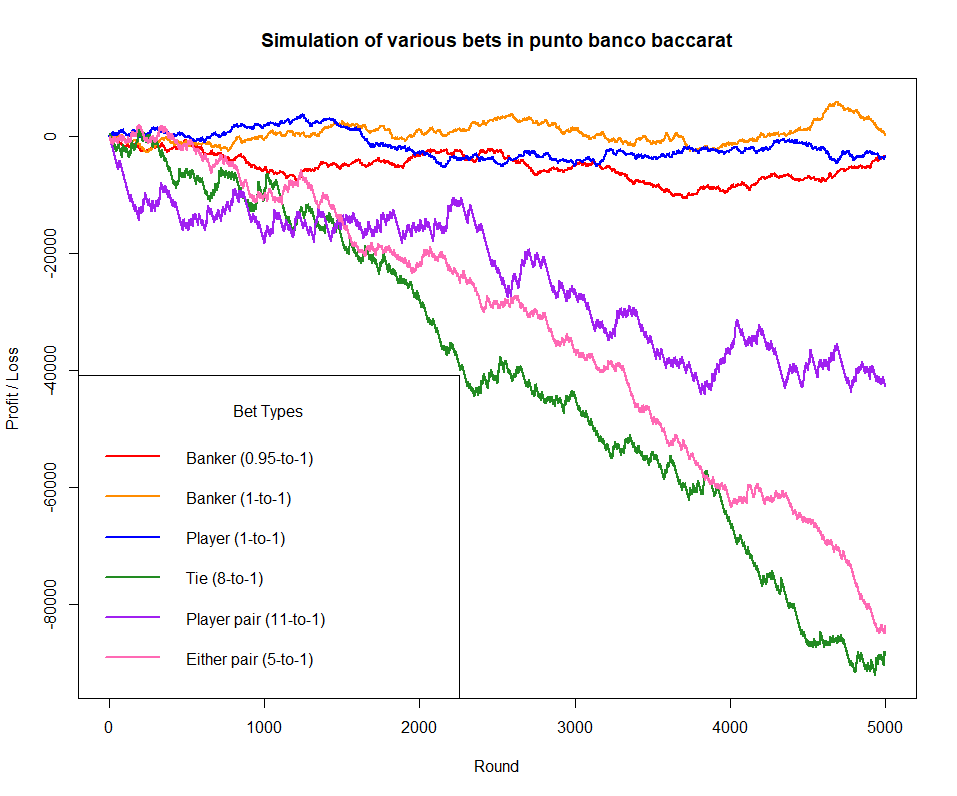
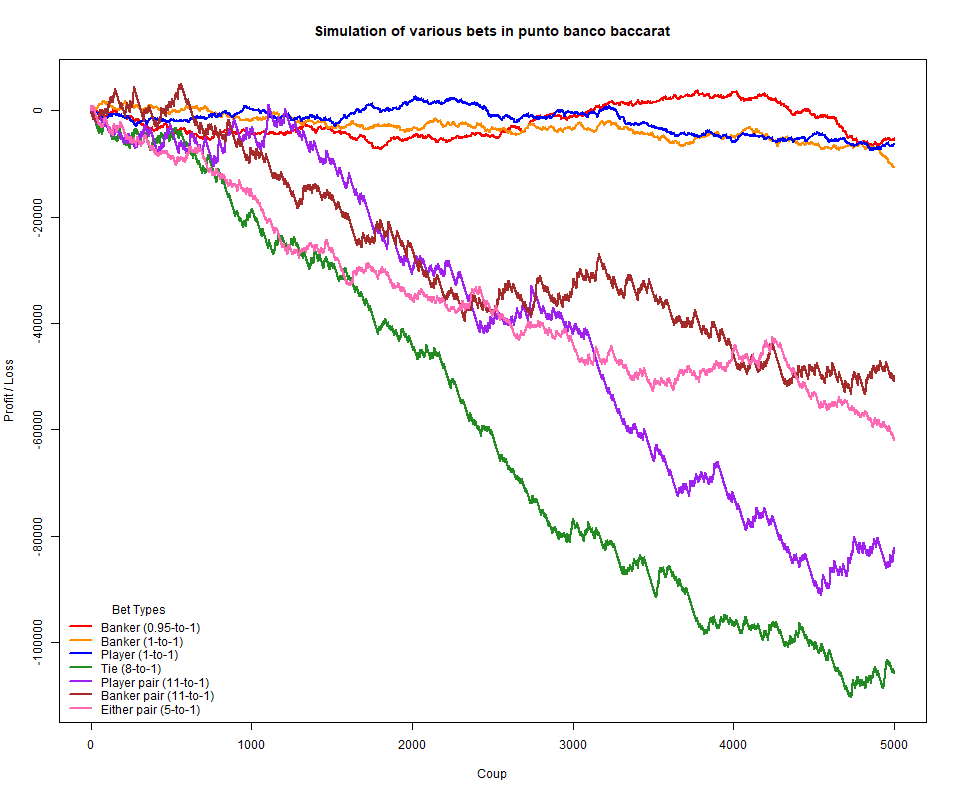
fix for either pair bet; generate table of outcomes per simulation; sample plots updated

diff --git a/README.md b/README.md
@@ -2,12 +2,12 @@
 
 A simulation of punto banco (North American style) baccarat in R. Latest version tested on R 3.4.1 (2017-06-30).
 
-Features:
+Gameplay Features:
 
 1. Uses standard drawing and tableau rules.
 2. Allows standard bets (player, banker, tie), player/banker pair bets (wins when first two cards dealt are a pair), and an either pair bet (wins when either player or banker's first two cards dealt are a pair).)
 3. Tie pushes all player and banker bets.
-4. Cut card is placed before the 7th card.
+4. Cut card is placed in front of the 6th last card.
 5. Can adjust the number of decks used (usually 6 to 8).
 6. Can turn on or off house commission for banker wins (commission set to 0.95). 
 7. Can adjust the payout for ties (usually pays 8:1 or 9:1).
@@ -15,8 +15,12 @@ Features:
 9. Can adjust the payout for an either pair bet (usually pays 5:1).
 
 
+Code Features:
+1. The code does not use any R packages. It can be run on a base R installation.
+
+
 ## baccaratsim
-Contains all of the functions to run the baccarat simulation. Run this file first.
+1. Contains all of the functions to run the baccarat simulation. Run this file first.
 
 
 ## bets
@@ -26,10 +30,10 @@ Contains all of the functions to run the baccarat simulation. Run this file firs
 
 
 ## density
-Displays a histogram or density plot of the various types of bets.
+1. Simulates r sessions of n rounds of baccarat with a specific bet, and displays a histogram or density plot of the profit/loss at the end of each session.
 
 
-## An explanation of punto banco baccarat
+## A brief explanation of punto banco baccarat
 
 *Credit to [Wikipedia](https://en.wikipedia.org/wiki/Baccarat_(card_game)#Punto_banco).*
 
@@ -75,14 +79,23 @@ Should both Banker and Player have the same value at the end of the deal the cro
   
 ## Release history
 
+### Version 2.1
+
+December 18, 2022
+
+1. Fixed an issue in *simulation()* where the either pair bet was not being subtracted from the cash balance.
+2. *simulation()* now also returns a table of outcomes, showing the player cards dealt, banker cards dealt, player and banker card totals, and the outcome.
+
+Tested on R version 4.2.2 (2022-10-31).
+
 ### Version 2.0 (Atlantic City)
 
 August 12, 2017
 
-* Implemented support for player/banker pair and either pair side bets, as well as the ability to change the payout for these bets.
-* No commission or commission-free baccarat now correctly pays 1-to-2 (0.5-to-1) for winning banker hand with total six.
-* Summary statistics added at the end of *simulation()*.
-* Changed wording to better reflect actual baccarat nomenclature.
+1. Implemented support for player/banker pair and either pair side bets, as well as the ability to change the payout for these bets.
+2. No commission or commission-free baccarat now correctly pays 1-to-2 (0.5-to-1) for winning banker hand with total six.
+3. Summary statistics added at the end of *simulation()*.
+4. Changed wording to better reflect actual baccarat nomenclature.
 
 Tested on R version 3.4.1 (2017-06-30).
 
@@ -90,6 +103,6 @@ Tested on R version 3.4.1 (2017-06-30).
 
 August 11, 2017
 
-Implemented basic game, drawing rules, house commission toggle, number of decks, tie payout, simulation plots.
+1. Implemented basic game, drawing rules, house commission toggle, number of decks, tie payout, simulation plots.
 
 Tested on R version 3.3.2 (2016-10-31).
